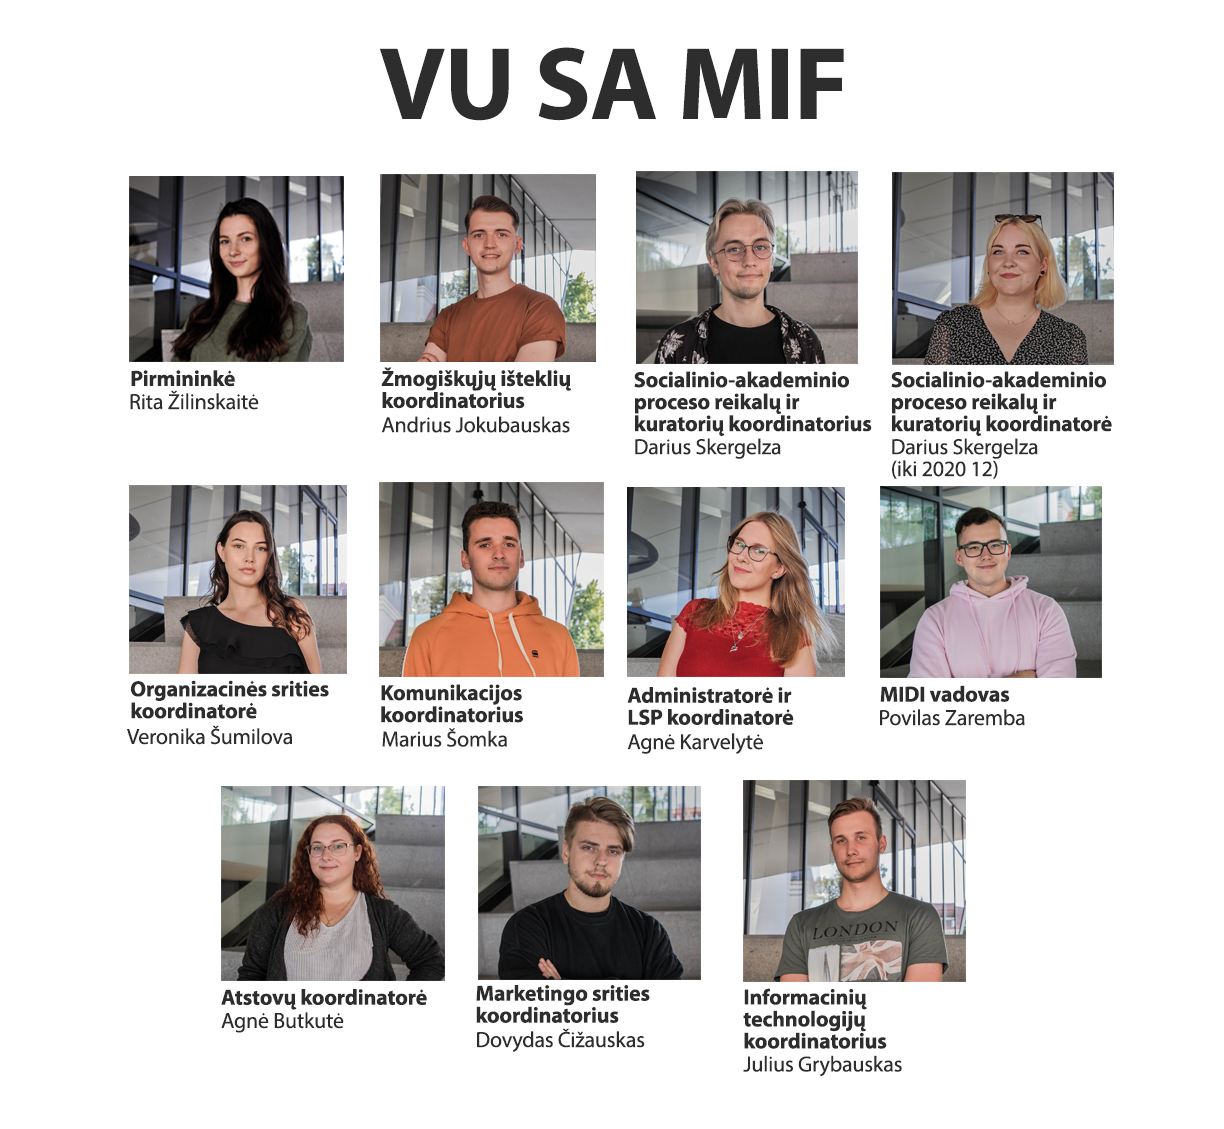
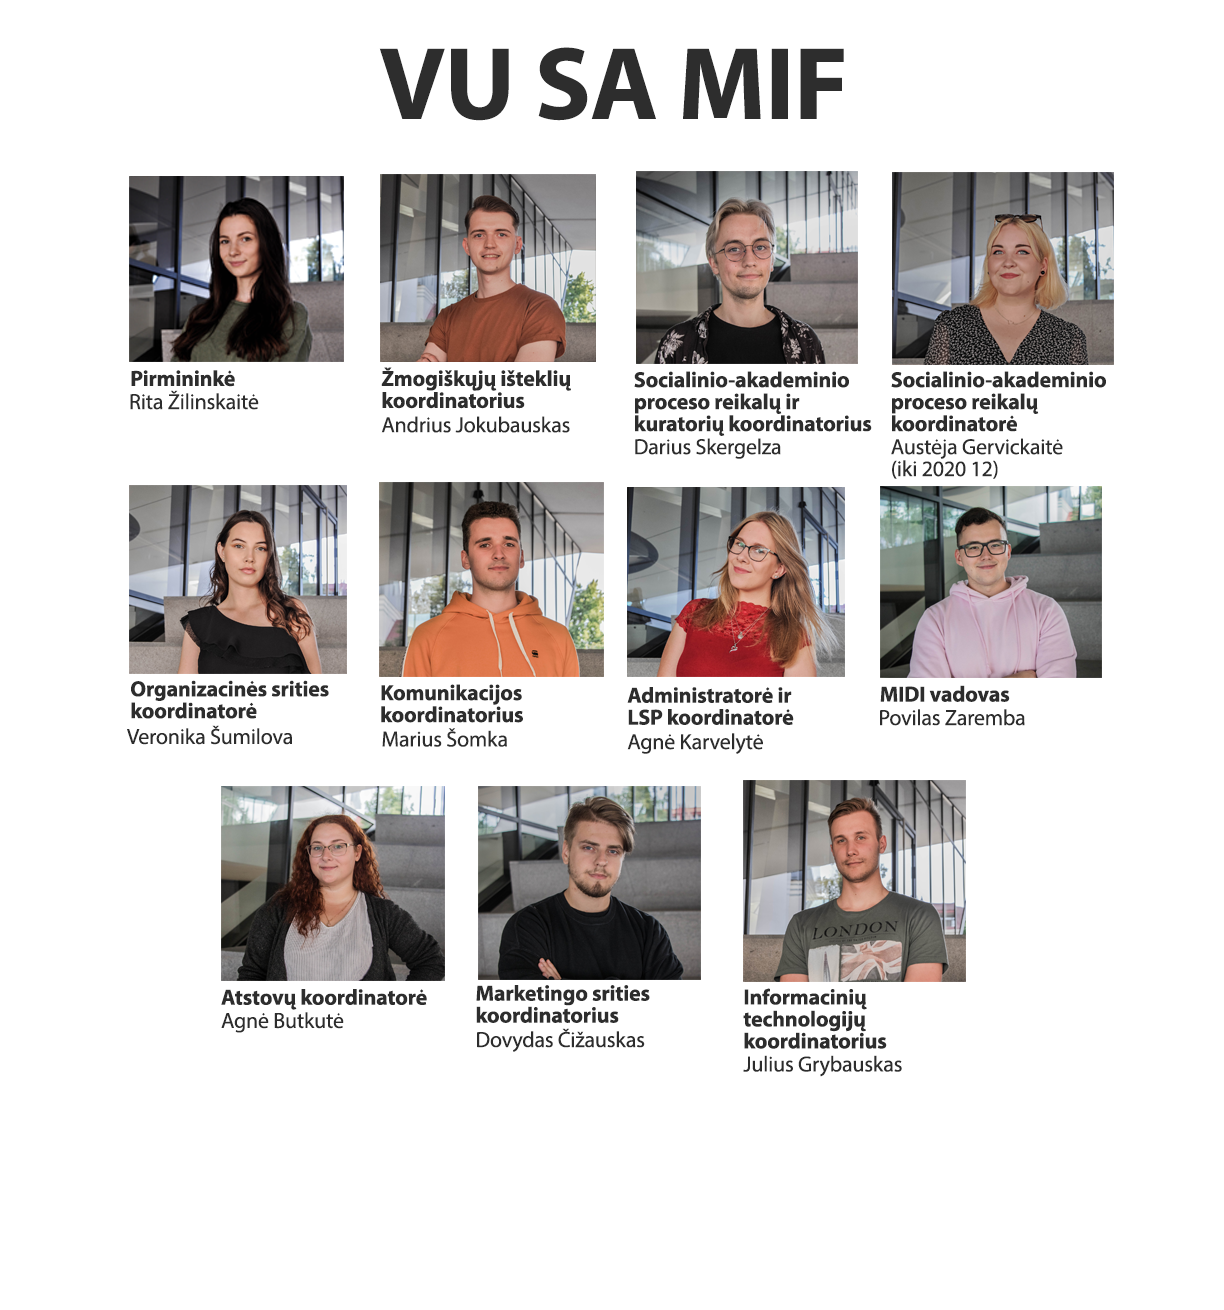
en version somewhat done

diff --git a/resources/views/texts/darni_en.blade.php b/resources/views/texts/darni_en.blade.php
@@ -117,15 +117,15 @@ This year's event VU Career Days 2021 took place on May 3rd-7th in online space.
 
 
 
-<h3 style="text-align: left;"><i><strong>Kuratorių programa </strong></i></h3>
-<p><i>Ataskaitiniu laikotarpiu programos veiklą koordinavo Evaldas Matijošaitis. </i></p>
+<h3 style="text-align: left;"><i><strong>Mentor program </strong></i></h3>
+<p><i>During the reference period, the activities of the program were coordinated by Evaldas Matijošaitis. </i></p>
 <p>
-<i>Kuratorių programa </i>– nuo 2000 metų VU SA vykdoma programa, skirta efektyviai integruoti pirmo kurso studentus į Universiteto bendruomenę bei supažindinti su studijų tvarka. Šios programos dalyviai – kuratoriai – specialius mokymus išklausę vyresnių kursų studentai, padedantys savo kuruojamos grupės studentams integracijos procese.
-</p>
-<i>Kuratorių programa</i> šiais metais praplėtė savo gretas ir surinko virš 200 kuratorių bakalauro studijų programų studentams, paskyrė po kuratorių pirmo kurso magistro studijų pakopos studentams bei individualiųjų studijų kuratorių. Taigi, specifinius mokymus praėję kuratoriai (mentoriai) padėjo įsilieti į Vilniaus universitetą ir studentams iš užsienio.  
+The mentors program is a program implemented by VU SA since 2000, designed to effectively integrate first-year students into the University community and to acquaint them with the study procedure. The participants of this program - mentors - are senior students who have received special training to help the students of their supervised group in the integration process. 
+</p><p>
+The mentors program has expanded its ranks this year to include over 200 tutors for undergraduate students, a first-time mentor for first-year master’s students, and mentor for individual studies. Thus, mentors who had completed specific trainings helped students from abroad to join Vilnius University. 
 </p>
 <p>
-Ateinančius mokslo metus programa sutiks pakitusi – išgryninta integracijos proceso koordinatoriaus <i>(ex kuratorių koordinatoriaus)</i> veikla ir pareigos padalinyje, apibrėžtos kuratorių kompetencijos, atsakomybės bei kelias būnant VU SA nariu, taip pat, skirtingose studentų grupėse, įvertintos gerosios renginių bei kitų iniciatyvų patirtys, kurias kuratoriai galėtų taikyti vykdomoje veikloje
+The program will come with some changes in the next academic year - the activities and responsibilities of the integration process coordinator (ex-tutor coordinator) have been refined, the competencies, responsibilities and path of being a member of VU SR have been defined, as well as could be applied in ongoing activities. 
 </p>
 <div class="image">
 <img src="/img/pkp_logo/Kuratorius-VUSA-tamsus.png" alt="kuratoriu logo" style="width:50%;">

diff --git a/resources/views/texts/sritys/en/cb.blade.php b/resources/views/texts/sritys/en/cb.blade.php
@@ -87,7 +87,7 @@
 
 <!-- Trigger/Open The Modal -->
 <button id="myBtn11" class="myBtn">
-<img src="/img/vizualai/cb.png" alt="MART1397B.jpg" style="width:100%">
+<img src="/img/vizualai/cb_en.png" alt="MART1397B.jpg" style="width:100%">
 </button>
 <!-- The Modal -->
 <div id="myModal11" class="modal">

diff --git a/resources/views/texts/sritys/en/tspmi.blade.php b/resources/views/texts/sritys/en/tspmi.blade.php
@@ -99,7 +99,7 @@
 
 
     
-<img src="/img/padeka/tspmi.png" alt="VU SA TSPMI" style="width:100%">
+<img src="/img/padeka/tspmi_en.png" alt="VU SA TSPMI" style="width:100%">
   </div>
 </div>
 

diff --git a/resources/views/texts/sritys/en/chgf.blade.php b/resources/views/texts/sritys/en/chgf.blade.php
@@ -99,7 +99,7 @@
 
 
     
-<img src="/img/padeka/chgf.png" alt="VU SA CHGF" style="width:100%">
+<img src="/img/padeka/chgf_en.png" alt="VU SA CHGF" style="width:100%">
   </div>
 </div>
 

diff --git a/resources/views/texts/sritys/en/filf.blade.php b/resources/views/texts/sritys/en/filf.blade.php
@@ -99,7 +99,7 @@
 
 
     
-<img src="/img/padeka/filf.png" alt="VU SA FILF" style="width:100%">
+<img src="/img/padeka/filf_en.png" alt="VU SA FILF" style="width:100%">
   </div>
 </div>
 

diff --git a/resources/views/texts/sritys/en/mif.blade.php b/resources/views/texts/sritys/en/mif.blade.php
@@ -99,7 +99,7 @@
 
 
     
-<img src="/img/padeka/mif1.png" alt="VU SA MIF" style="width:100%">
+<img src="/img/padeka/mif1_en.png" alt="VU SA MIF" style="width:100%">
   </div>
 </div>
 

diff --git a/resources/views/texts/sritys/en/fsf.blade.php b/resources/views/texts/sritys/en/fsf.blade.php
@@ -99,7 +99,7 @@
 
 
     
-<img src="/img/padeka/fsf.png" alt="VU SA FSF" style="width:100%">
+<img src="/img/padeka/fsf_en.png" alt="VU SA FSF" style="width:100%">
   </div>
 </div>
 

diff --git a/resources/views/texts/sritys/en/gmc.blade.php b/resources/views/texts/sritys/en/gmc.blade.php
@@ -99,7 +99,7 @@
 
 
     
-<img src="/img/padeka/gmc.png" alt="VU SA GMC" style="width:100%">
+<img src="/img/padeka/gmc_en.png" alt="VU SA GMC" style="width:100%">
   </div>
 </div>
 

diff --git a/resources/views/texts/sritys/en/knf.blade.php b/resources/views/texts/sritys/en/knf.blade.php
@@ -99,7 +99,7 @@
 
 
     
-<img src="/img/padeka/knf.png" alt="VU SA KNF" style="width:100%">
+<img src="/img/padeka/knf_en.png" alt="VU SA KNF" style="width:100%">
   </div>
 </div>
 

diff --git a/resources/views/texts/sritys/en/sa.blade.php b/resources/views/texts/sritys/en/sa.blade.php
@@ -99,7 +99,7 @@
 
 
     
-<img src="/img/padeka/sa.png" alt="VU SA ŠA" style="width:100%">
+<img src="/img/padeka/sa_en.png" alt="VU SA ŠA" style="width:100%">
   </div>
 </div>
 

diff --git a/resources/views/texts/sritys/en/if.blade.php b/resources/views/texts/sritys/en/if.blade.php
@@ -99,7 +99,7 @@
 
 
     
-<img src="/img/padeka/if.png" alt="VU SA IF" style="width:100%">
+<img src="/img/padeka/if_en.png" alt="VU SA IF" style="width:100%">
   </div>
 </div>
 

diff --git a/resources/views/texts/sritys/en/kf.blade.php b/resources/views/texts/sritys/en/kf.blade.php
@@ -99,7 +99,7 @@
 
 
     
-<img src="/img/padeka/kf.png" alt="VU SA KF" style="width:100%">
+<img src="/img/padeka/kf_en.png" alt="VU SA KF" style="width:100%">
   </div>
 </div>
 
